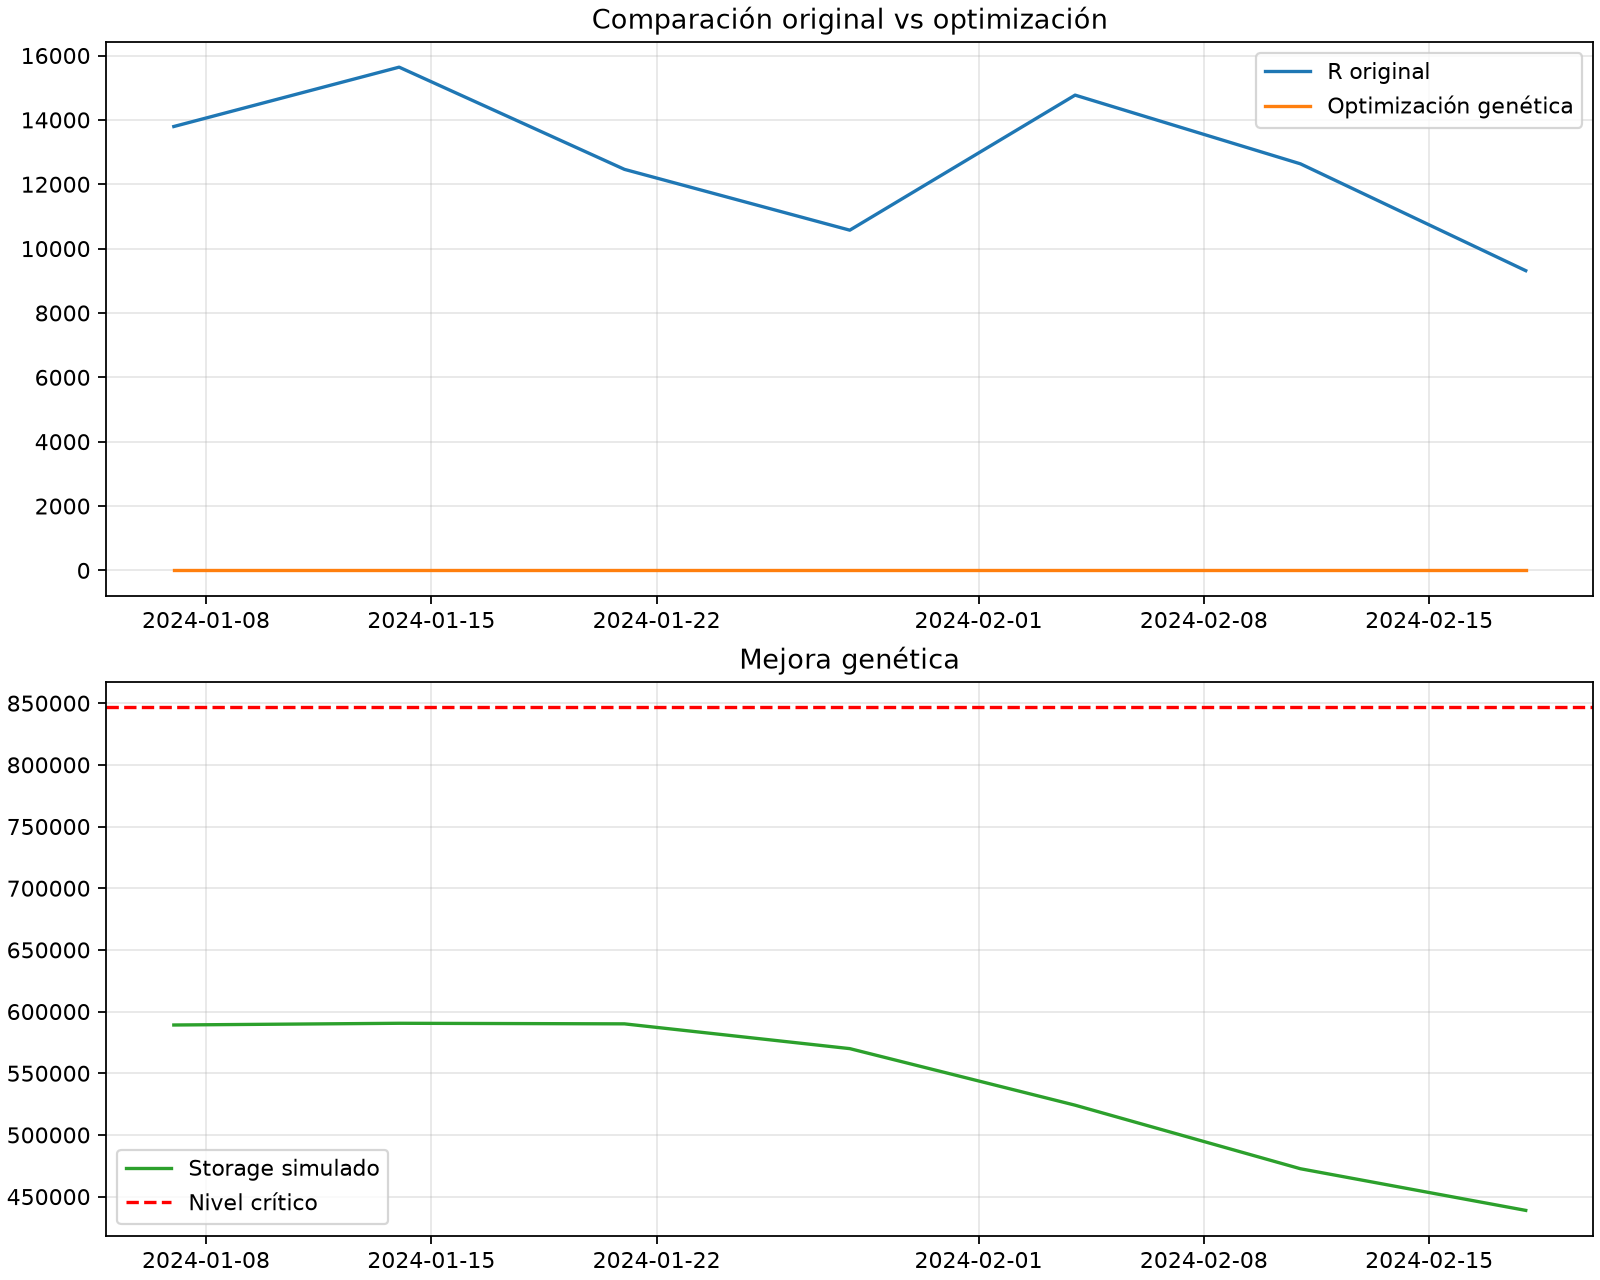
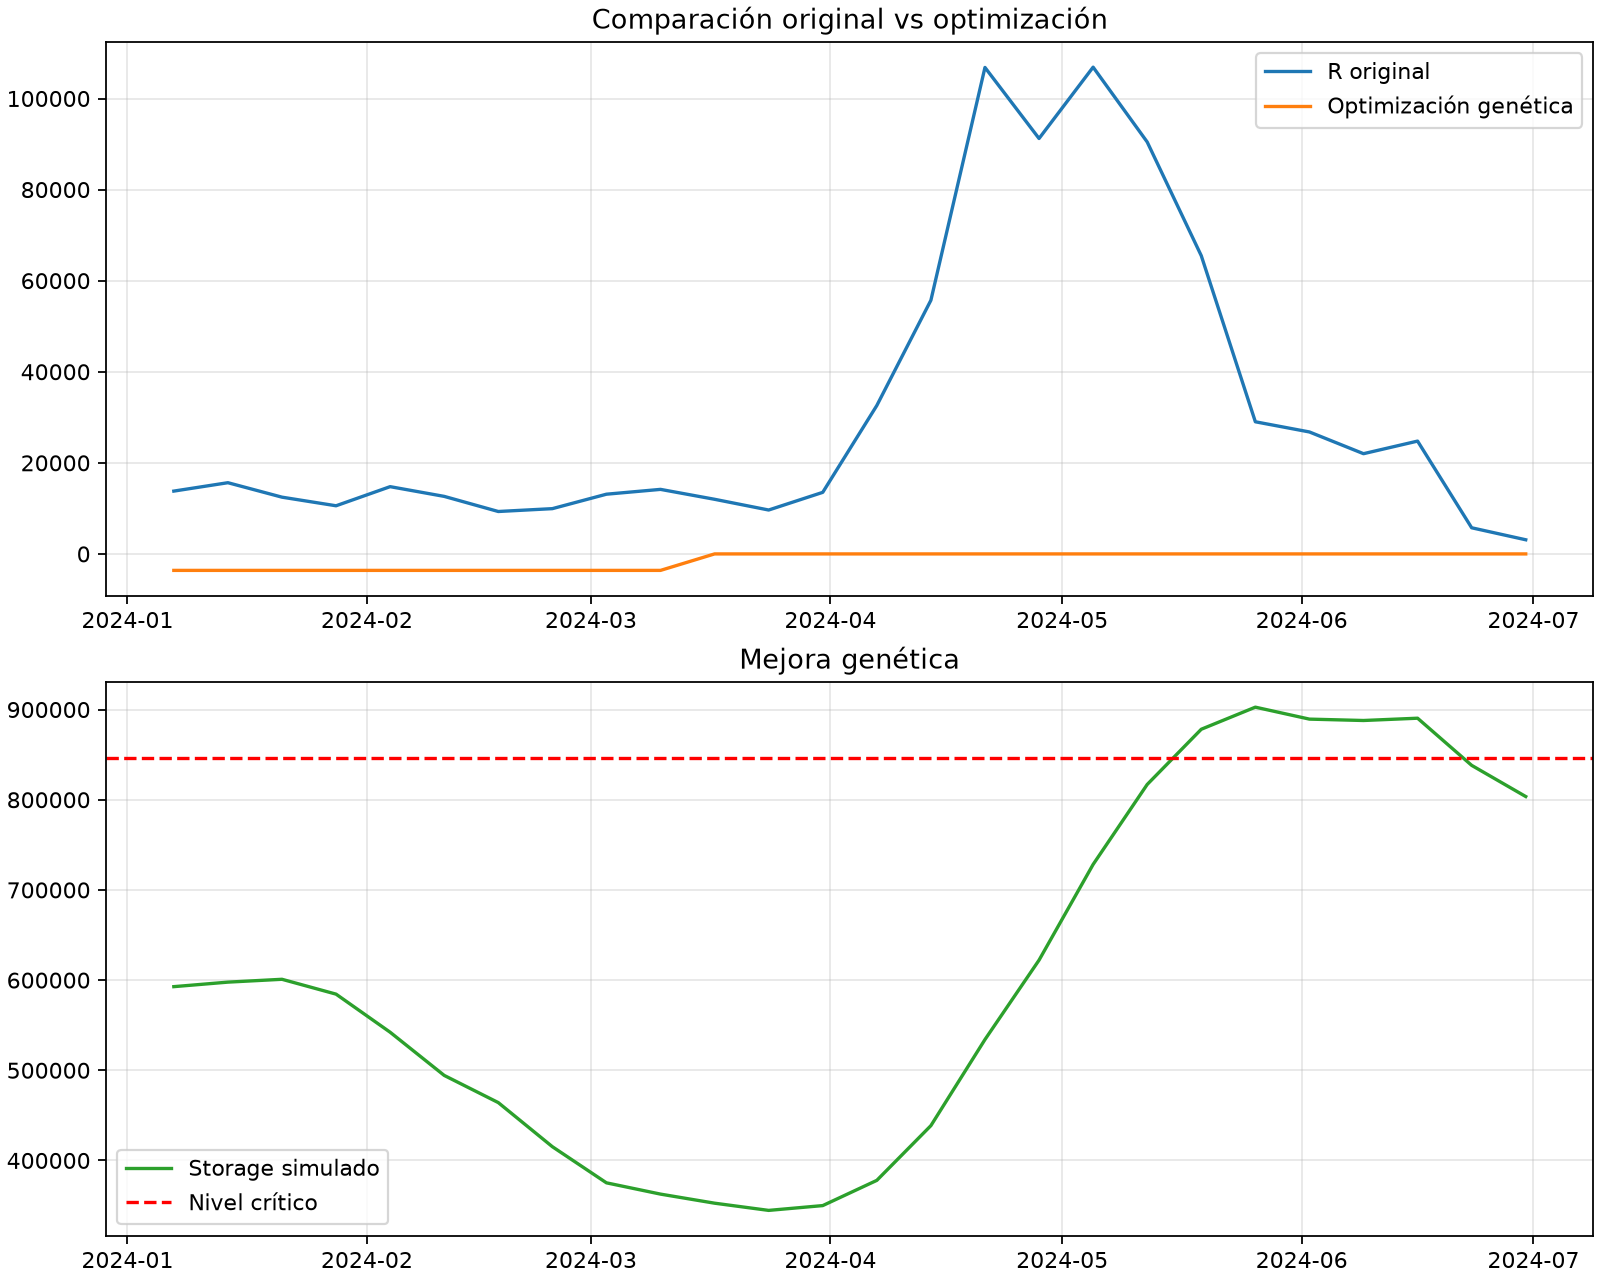
mas correcciones

diff --git a/hackatonlatam2026/gui_app.py b/hackatonlatam2026/gui_app.py
@@ -122,22 +122,26 @@ def construir_resultado_ventana(base_dir: Path | None = None, fecha_inicio: str 
         s_acumulado[idx + 1] = s_acumulado[idx] + valor
     datos_opt["S_simulada"] = s_acumulado[1:]
 
-    fig, axes = plt.subplots(2, 1, figsize=(10, 8), constrained_layout=True)
-    axes[0].plot(datos_opt["Fecha"], datos_opt["R_obs"], label="R original", color="tab:blue")
-    axes[0].plot(datos_opt["Fecha"], datos_opt["u_opt"], label="Optimización genética", color="tab:orange")
-    axes[0].set_title("Comparación original vs optimización")
-    axes[0].legend()
-    axes[0].grid(True, alpha=0.3)
+    fig_comp, ax_comp = plt.subplots(figsize=(10, 5), constrained_layout=True)
+    ax_comp.plot(datos_opt["Fecha"], datos_opt["R_obs"], label="R original", color="tab:blue")
+    ax_comp.plot(datos_opt["Fecha"], datos_opt["u_opt"], label="Optimización genética", color="tab:orange")
+    ax_comp.set_title("Comparación original vs optimización")
+    ax_comp.legend()
+    ax_comp.grid(True, alpha=0.3)
 
-    axes[1].plot(datos_opt["Fecha"], datos_opt["S_simulada"], label="Storage simulado", color="tab:green")
-    axes[1].axhline(S_min, color="red", linestyle="--", label="Nivel crítico")
-    axes[1].set_title("Mejora genética")
-    axes[1].legend()
-    axes[1].grid(True, alpha=0.3)
+    fig_mejora, ax_mejora = plt.subplots(figsize=(10, 5), constrained_layout=True)
+    ax_mejora.plot(datos_opt["Fecha"], datos_opt["S_simulada"], label="Storage simulado", color="tab:green")
+    ax_mejora.axhline(S_min, color="red", linestyle="--", label="Nivel crítico")
+    ax_mejora.set_title("Mejora genética")
+    ax_mejora.legend()
+    ax_mejora.grid(True, alpha=0.3)
 
-    ruta_grafica = base_dir / "resultado_optimizacion.png"
-    fig.savefig(ruta_grafica, dpi=160)
-    plt.close(fig)
+    ruta_comparacion = base_dir / f"comparacion_{pd.Timestamp(fecha_inicio).strftime('%Y%m%d')}_{semanas}_semanas.png"
+    ruta_mejora = base_dir / f"mejora_{pd.Timestamp(fecha_inicio).strftime('%Y%m%d')}_{semanas}_semanas.png"
+    fig_comp.savefig(ruta_comparacion, dpi=160)
+    fig_mejora.savefig(ruta_mejora, dpi=160)
+    plt.close(fig_comp)
+    plt.close(fig_mejora)
 
     return {
         "fecha_inicio": pd.Timestamp(fecha_inicio),
@@ -146,64 +150,96 @@ def construir_resultado_ventana(base_dir: Path | None = None, fecha_inicio: str 
         "mejora_genetica": {
             "mejora_pct": round(float(mejora_pct), 2),
             "score": round(float(hof[0].fitness.values[0]), 6),
-            "ruta_grafica": str(ruta_grafica),
+            "ruta_grafica": str(ruta_comparacion),
         },
-        "ruta_grafica": str(ruta_grafica),
+        "ruta_grafica": str(ruta_comparacion),
+        "rutas_graficas": {
+            "comparacion": str(ruta_comparacion),
+            "mejora": str(ruta_mejora),
+        },
     }
+
+
+def _mostrar_popup_grafica(parent, ruta_imagen: str, titulo: str) -> None:
+    if not os.path.exists(ruta_imagen):
+        return
+    try:
+        from PIL import Image, ImageTk
+    except Exception:
+        return
+
+    ventana = parent.tk().Toplevel(parent) if hasattr(parent, "tk") else None
+    if ventana is None:
+        return
+    ventana.title(titulo)
+    imagen = Image.open(ruta_imagen)
+    imagen.thumbnail((900, 600))
+    foto = ImageTk.PhotoImage(imagen)
+    etiqueta = tk.Label(ventana, image=foto)
+    etiqueta.image = foto
+    etiqueta.pack(fill="both", expand=True)
 
 
 def ejecutar_interfaz() -> None:
     import tkinter as tk
-    from tkinter import simpledialog, messagebox
+    from tkinter import ttk, messagebox
+
+    try:
+        root = tk.Tk()
+    except Exception:
+        print("Tkinter no está disponible con un display gráfico en este entorno.")
+        print("Se generará la salida de la ventana como archivo PNG y se cerrará el proceso.")
+        base_dir = Path(__file__).resolve().parent
+        resultado = construir_resultado_ventana(base_dir, "2024-01-01", 26)
+        print(f"Gráficas generadas en: {resultado['ruta_grafica']} y {resultado['rutas_graficas']['mejora']}")
+        return
 
     base_dir = Path(__file__).resolve().parent
     fechas_disponibles = obtener_fechas_disponibles(base_dir)
     if not fechas_disponibles:
         messagebox.showerror("Sin datos", "No se encontraron fechas válidas en los datasets.")
+        root.destroy()
         return
 
-    root = tk.Tk()
-    root.withdraw()
+    root.title("Selección de ventana histórica")
+    root.geometry("450x260")
+    root.resizable(False, False)
 
-    fecha_str = simpledialog.askstring(
-        "Ventana histórica",
-        "Selecciona la fecha inicial de la ventana histórica:",
-        initialvalue=str(fechas_disponibles[0].date()),
-    )
-    if not fecha_str:
-        return
+    fecha_var = tk.StringVar(value=str(fechas_disponibles[0].date()))
+    semanas_var = tk.IntVar(value=26)
 
-    try:
-        fecha_inicio = pd.Timestamp(fecha_str)
-    except Exception:
-        messagebox.showerror("Fecha inválida", "Ingresa una fecha válida en formato YYYY-MM-DD.")
-        return
+    tk.Label(root, text="Fecha inicial de la ventana histórica", font=("Segoe UI", 11, "bold")).pack(pady=(16, 6))
+    combo_fechas = ttk.Combobox(root, textvariable=fecha_var, values=[str(f.date()) for f in fechas_disponibles], state="readonly", width=25)
+    combo_fechas.pack(pady=4)
 
-    opciones = [7, 26, 52]
-    semanas = simpledialog.askinteger(
-        "Semanas",
-        "¿Cuántas semanas tomar en cuenta? (7, 26 o 52)",
-        initialvalue=26,
-        minvalue=7,
-        maxvalue=52,
-    )
-    if semanas is None:
-        return
+    tk.Label(root, text="Semanas a considerar", font=("Segoe UI", 11, "bold")).pack(pady=(12, 6))
+    frame_semanas = tk.Frame(root)
+    frame_semanas.pack()
+    for valor in (7, 26, 52):
+        tk.Radiobutton(frame_semanas, text=f"{valor} semanas", variable=semanas_var, value=valor).pack(side="left", padx=8)
 
-    if semanas not in opciones:
-        semanas = 26 if semanas < 26 else 52
+    def ejecutar_analisis() -> None:
+        fecha_str = fecha_var.get()
+        semanas = semanas_var.get()
+        if not fecha_str:
+            messagebox.showwarning("Sin fecha", "Selecciona una fecha válida.")
+            return
+        try:
+            fecha_inicio = pd.Timestamp(fecha_str)
+        except Exception:
+            messagebox.showwarning("Fecha inválida", "La fecha seleccionada no es válida.")
+            return
 
-    resultado = construir_resultado_ventana(base_dir, fecha_inicio.strftime("%Y-%m-%d"), semanas)
+        resultado = construir_resultado_ventana(base_dir, fecha_inicio.strftime("%Y-%m-%d"), semanas)
+        messagebox.showinfo(
+            "Resultados",
+            f"Ventana: {resultado['fecha_inicio'].date()}\nSemanas: {resultado['semanas']}\nMejora estimada: {resultado['mejora_genetica']['mejora_pct']}%",
+        )
+        _mostrar_popup_grafica(root, resultado["rutas_graficas"]["comparacion"], "Comparación original vs optimización")
+        _mostrar_popup_grafica(root, resultado["rutas_graficas"]["mejora"], "Mejora genética")
 
-    messagebox.showinfo(
-        "Resultados",
-        f"Ventana: {resultado['fecha_inicio'].date()}\nSemanas: {resultado['semanas']}\nMejora estimada: {resultado['mejora_genetica']['mejora_pct']}%\nGráfica generada en: {resultado['ruta_grafica']}",
-    )
-
-    if os.path.exists(resultado["ruta_grafica"]):
-        from PIL import Image
-        img = Image.open(resultado["ruta_grafica"])
-        img.show()
+    tk.Button(root, text="Generar análisis", command=ejecutar_analisis, width=20, bg="#2e86de", fg="white").pack(pady=16)
+    root.mainloop()
 
 
 if __name__ == "__main__":

diff --git a/tests/test_gui_logic.py b/tests/test_gui_logic.py
@@ -2,7 +2,12 @@ from pathlib import Path
 
 import pandas as pd
 
-from hackatonlatam2026.gui_app import construir_resultado_ventana, obtener_fechas_disponibles
+from hackatonlatam2026.gui_app import (
+    construir_pagina_web,
+    construir_resultado_ventana,
+    obtener_fechas_disponibles,
+    procesar_analisis_web,
+)
 
 
 def test_obtener_fechas_disponibles_devuelve_valores_reales():
@@ -20,4 +25,22 @@ def test_construir_resultado_ventana_devuelve_metricas_coherentes():
     assert resultado["semanas"] == 7
     assert resultado["fecha_inicio"] == pd.Timestamp("2024-01-01")
     assert resultado["mejor_secuencia"].shape[0] == 7
+    assert resultado["mejora_genetica"]["mejora_pct"] >= 0
+
+
+def test_construir_pagina_web_incluye_formulario_y_opciones():
+    base_dir = Path(__file__).resolve().parents[1] / "hackatonlatam2026"
+    fechas = obtener_fechas_disponibles(base_dir)
+    html = construir_pagina_web(fechas, base_dir)
+
+    assert "id=\"analisis-form\"" in html
+    assert "7 semanas" in html
+    assert "52 semanas" in html
+
+
+def test_procesar_analisis_web_devuelve_datos_de_resultado():
+    base_dir = Path(__file__).resolve().parents[1] / "hackatonlatam2026"
+    resultado = procesar_analisis_web({"fecha": "2024-01-01", "semanas": "7"}, base_dir)
+
+    assert resultado["semanas"] == 7
     assert resultado["mejora_genetica"]["mejora_pct"] >= 0
